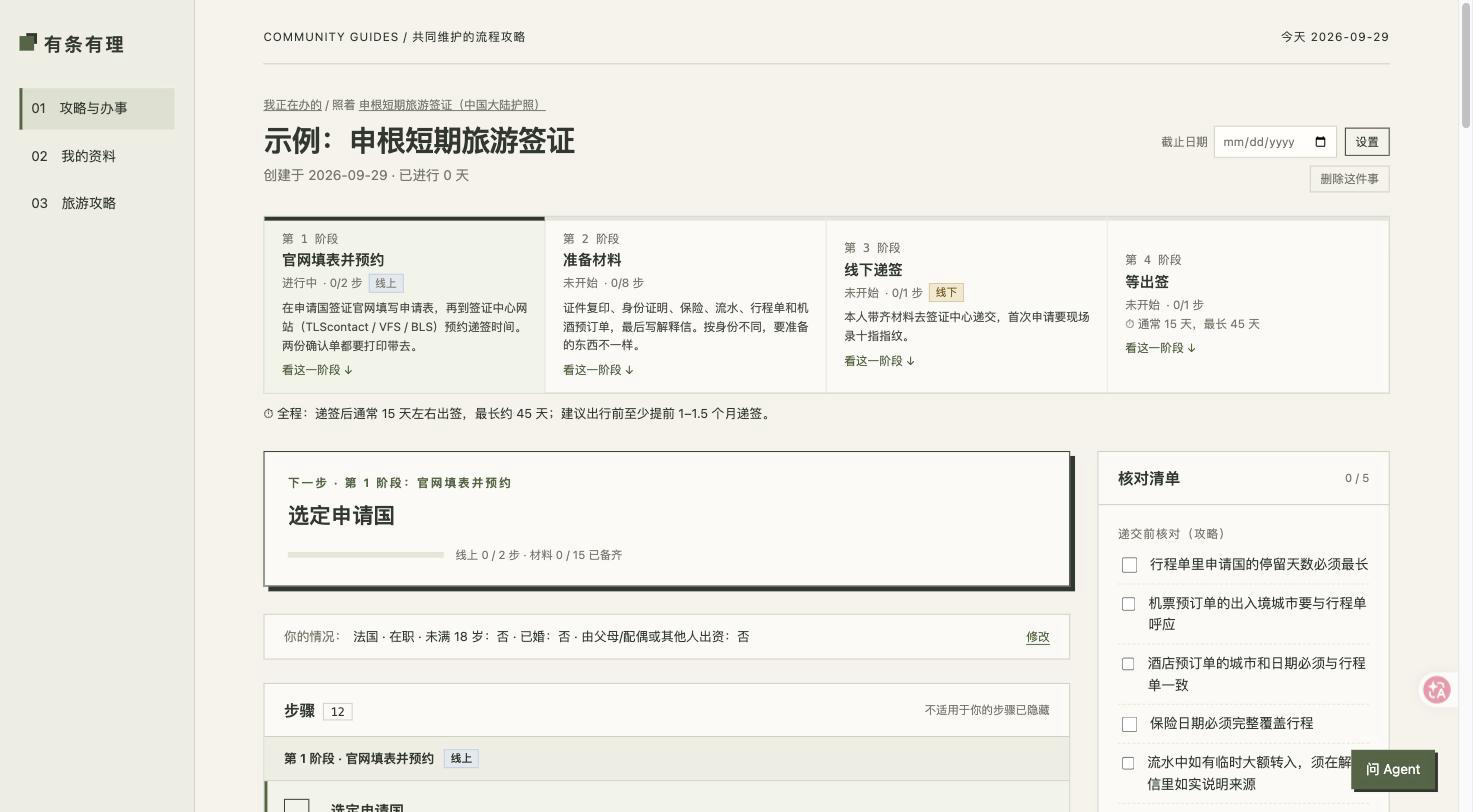
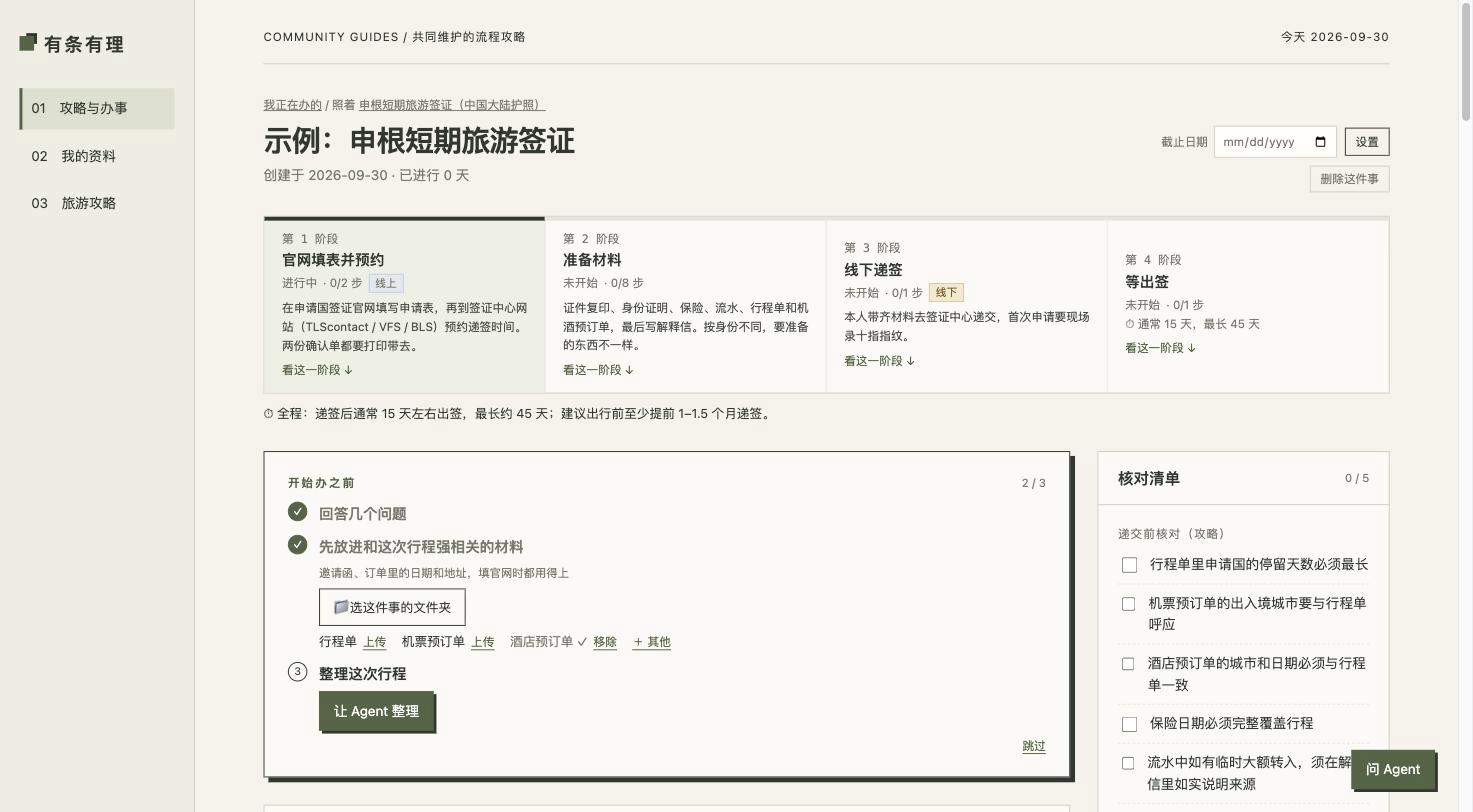
docs(readme): rewrite for first-time users and move developer notes to CONTRIBUTING
Walks through one Schengen visa end to end, explains installation for people
who have never used a terminal, and refreshes the screenshots (fictional data).

Changed region(s): [[0.1561, 0.585, 0.7495, 1.0], [0.9681, 0.8313, 0.9993, 0.8621]]

diff --git a/README.md b/README.md
@@ -1,75 +1,106 @@
 # 有条有理
 
-**把小红书上零散的签证 / 办事攻略，整理成照着做就行的清单，并自动对上你手里已有的材料。**
+**办签证、领补贴，把散在各处的攻略整理成一张清单，一步步照着做。**
 
-![攻略库和办理中的事](docs/screenshots/home.png)
+![攻略库和正在办的事](docs/screenshots/home.png)
 
-| 照着攻略办：问几个问题，只留和你有关的步骤和材料 | 材料库：过期、快过期的自动提醒 |
-|---|---|
-| ![办事页](docs/screenshots/track.png) | ![我的资料](docs/screenshots/materials.png) |
+<sub>截图里的资料都是虚构的。</sub>
 
-<details><summary>贴帖子让 Agent 整理成攻略</summary>
+## 它解决什么问题
 
-![新建攻略](docs/screenshots/new-guide.png)
+准备办一件事的时候，你大概会经历这些：
 
-</details>
+- 在小红书翻了十几篇帖子，说法各不相同，不知道该信哪篇；
+- 材料一大堆，哪份过期了、哪份还没开，全靠脑子记；
+- 到官网填表，护照号、地址、工作经历又要一格一格敲一遍。
 
-<sub>截图里的资料都是虚构的（`uv run youtiao --demo`）。</sub>
+有条有理就是为这几件事做的。它是一个**装在你自己电脑上**的小工具，用浏览器打开就能用。
 
-办签证、领补贴时，最难的往往不是"去办"，而是弄清楚**到底要办什么**：攻略散在十几篇帖子里，说法互相矛盾；材料有有效期，搞不清哪份还能用；同一份护照、同一份流水，下次办别的事还得重新翻。
+## 以办一次申根签证为例
 
-有条有理做三件事：
+**1. 挑一份攻略，点"开始办"。** 攻略先问你几个问题，比如在职还是学生、去哪个国家，然后只留下和你有关的步骤和材料。
 
-1. **贴帖子 → 攻略**：把几篇小红书帖子的分享链接贴进「新建攻略」，你电脑上的 Claude Code 会在不登录的浏览器里读帖子，整理成一份结构化攻略：先问你几个会影响清单的问题（身份、婚否……），再列出要做哪几步、每步要什么材料、哪些信息必须前后一致。每一条都附原帖里的原话，几篇说法不同的地方会单独标出来，不替你拍板。
-2. **我的办事**：挑一份攻略"开始办"，和你无关的材料自动隐藏；它用你本机的材料库对出"哪些已经有、哪些过期了、还缺什么"，告诉你下一步做什么、什么时候该办。
-3. **材料和基本信息只录一次**：护照、流水、在职证明记一次有效期，办哪件事都能对上；姓名拼音、住址、学历、工作经历填一次，填表时直接拿来用。
+**2. 按开始清单准备。** 最上面有一张三步的小清单：回答问题 → 放进邀请函、酒店订单这些和行程有关的材料 → 整理这次行程。你也可以直接关联桌面上早就建好的"申根签证"文件夹，不用把文件再传一遍。
 
-仓库里自带几份整理好的攻略，装好就能直接开始办。
+![办事页和开始清单](docs/screenshots/track.png)
 
-另外还有：
+**3. 让 Agent 帮你整理行程。** 用一句话说"11 月 2 日到 9 日去巴黎玩，住某某酒店"，或者让它读你勾选的订单和邀请函，它会把目的、日期、住处整理好，**你确认之后才保存**。
 
-- **填表插件**：装上 Chrome 插件后，在官网上点"填本页"，姓名、生日、护照、地址、电话这些常见格子一两秒填完；填不了的标红框，侧边栏列出你的资料，点一下复制。也可以对某个网站打开"自动填"，翻到下一页就自动填好。签名、付款、提交永远由你自己来。
-- **填表对照**：不想装插件，也可以打开「填表对照」页，放在官网旁边自己复制粘贴。
-- **导出提醒**：有时间要求的步骤（例如"社保满 6 个月才能申请"）可以导出到日历。
+![这次行程](docs/screenshots/trip.png)
+
+**4. 看材料缺什么。** 你之前登记过的护照、流水、在职证明会自动对上；右边「材料一览」告诉你哪些已经有、哪些过期了、还缺什么。
+
+**5. 到官网填表。** 装上 Chrome 插件，在官网上点"填本页"，姓名、生日、护照、地址、这次的行程日期几秒钟就填好。填不了的格子标红框，你自己补。**签名、付款、提交永远由你来点。**
+
+材料和基本信息只需要录一次，下次办别的事还能接着用。
 
 ## 你的资料只在你的电脑上
 
-- 攻略是大家的，放在公开的 [`community/`](./community/)，**不含任何个人信息**。
-- 你的材料文件、基本信息、办事进度，都在你自己指定的"材料根目录"里（可以是 iCloud / Google Drive 同步目录），永远不进仓库。
-- 应用本身不调用任何 AI 模型，不需要 API key，也不会把你的资料发给任何人。Agent 功能用的是你自己电脑上装的 Claude Code，额度也是你自己的。
+- 你的材料文件、基本信息、办事进度，都存在你自己电脑上的一个文件夹里，**不会上传到任何地方**。这个文件夹也可以放在 iCloud 或 Google Drive 里，方便多台电脑同步。
+- 仓库里只有攻略和代码。攻略放在 [`community/`](./community/) 里，大家一起维护，**不含任何个人信息**。
+- 软件本身不调用任何 AI，也不需要注册账号。Agent 功能是可选的，用的是你自己电脑上的 Claude Code。
 
-## 快速开始
+## 安装（大约 10 分钟）
 
-需要 [uv](https://docs.astral.sh/uv/)（它会自动准备 Python 3.11+）：
+需要：一台 Mac（Windows 和 Linux 应该也能用，但测试得少），以及 Chrome 浏览器。
+
+**第 1 步：装 uv**（一个帮你准备 Python 环境的小工具，只装一次）
+
+打开「终端」（在启动台里搜"终端"），粘贴下面这行，按回车：
 
 ```bash
-git clone <仓库地址> && cd personal-assistant
-uv sync
+curl -LsSf https://astral.sh/uv/install.sh | sh
+```
+
+装完后把终端关掉，再重新打开一次。
+
+<details><summary>Windows 用户</summary>
+
+打开 PowerShell，运行：
+
+```powershell
+powershell -ExecutionPolicy ByPass -c "irm https://astral.sh/uv/install.ps1 | iex"
+```
+
+</details>
+
+**第 2 步：下载这个项目**
+
+在本页上方点绿色的 **Code → Download ZIP**，解压到你喜欢的位置，比如「文稿」。解压出来的文件夹叫 `personal-assistant-main`。会用 git 的话也可以 `git clone`。
+
+**第 3 步：启动**
+
+在终端里进入刚才解压的文件夹，然后启动。第一次启动会自动下载需要的东西，要等一两分钟：
+
+```bash
+cd ~/Documents/personal-assistant-main
 uv run youtiao
 ```
 
-会自动在浏览器里打开 <http://127.0.0.1:8000>。想先用一套虚构资料看看效果：`uv run youtiao --demo`（不会碰你的真实资料）。第一次打开是空的：先到「我的资料」加几份材料、填一下基本信息，再去攻略库挑一份"开始办"。
+浏览器会自动打开 <http://127.0.0.1:8000>。以后每次想用，都在终端里运行这两行；用完直接关掉终端窗口就行。
 
-材料默认存在仓库里的 `materials/`（已被 git 忽略）。想放到别处，把 `config.example.yaml` 复制成 `config.yaml`，改 `materials_root`。
+**先看看效果？** 运行 `uv run youtiao --demo`，打开的是一套虚构的资料，随便点，不会影响你自己的数据。
 
-### 可选：填表插件（Chrome）
+**第一次正式使用**：先到「我的资料」登记几份常用材料（护照、流水……），填一下基本信息，再去攻略库挑一份"开始办"。右下角的「问 Agent」里点"带我上手"，它会一步步带你走一遍（需要下面的 Agent 功能）。
 
-1. Chrome 地址栏打开 `chrome://extensions`，打开右上角的「开发者模式」。
-2. 点「加载已解压的扩展程序」，选仓库里的 `extension/` 文件夹。
-3. 点工具栏上的插件图标，右边会打开侧边栏。打开要填的官网，点「填本页」；第一次在某个网站上用，Chrome 会问要不要允许插件读写这个网站，选允许。
+## 可选功能
 
-插件只和你电脑上的本地服务通信（`uv run youtiao` 要开着），不调用任何 AI。条款禁止自动化的网站（例如澳洲 ImmiAccount），侧边栏会先显示条款原文，你勾选"我知道风险"后才能用。
+### Chrome 填表插件
 
-### 可选：Agent 功能
+1. 在 Chrome 地址栏打开 `chrome://extensions`，打开右上角的「开发者模式」。
+2. 点「加载已解压的扩展程序」，选项目里的 `extension` 文件夹。
+3. 点工具栏上的插件图标，右边会打开侧边栏。到要填的官网，先在顶部选「这件事」，再点「填本页」。
 
-「新建攻略」、右下角的「问 Agent」和 Agent 填表，需要：
+插件只和你电脑上的有条有理通信，所以用的时候 `uv run youtiao` 要开着。有些网站的条款禁止自动填表，比如澳洲 ImmiAccount，侧边栏会先把条款原文给你看，由你决定用不用。
 
-- [Claude Code](https://claude.com/claude-code)，并已登录；
-- 读小红书帖子还需要 [Claude in Chrome](https://claude.ai/chrome) 扩展。
+### Agent 功能
 
-装好后重启本地服务，页面会自动检测到。没有装也不影响其他功能。
+「让 Agent 整理」行程、「新建攻略」和右下角的「问 Agent」需要：
 
-在终端里用 Claude Code 时（例如让它帮你填表），第一次在项目目录里打开，它会问要不要启用本项目的 MCP 服务 `personal-assistant`，**选启用**：填表、查进度这些工具都在里面。当时选了不启用的话，在 Claude Code 里输入 `/mcp` 重新打开。
+- 装好 [Claude Code](https://claude.com/claude-code) 并登录；
+- 如果要让它读小红书帖子来整理攻略，还要装 [Claude in Chrome](https://claude.ai/chrome) 扩展。它只用不登录的浏览器读帖子，不会碰你的账号。
+
+装好后重启有条有理，页面会自动发现它。不装也不影响其他功能。
 
 ## 现有攻略
 
@@ -79,50 +110,51 @@ uv run youtiao
 | 美国 B1/B2 商务 / 旅游签证（中国大陆申请） | 签证 |
 | 美国 F-1 学生签证（中国大陆面签） | 签证 |
 | 澳大利亚 600 访客签证 · 商务类（网申 DIY） | 签证 |
-| 在美 F-1 学生申请英国标准访客签证（纽约 VFS） | 签证 |
+| 在美 F-1 学生申请英国标准访客签证 | 签证 |
 | 在美 F-1 学生申请阿根廷旅游签证 | 签证 |
 | 杭州应届生补贴（青荷礼包 / 生活 / 租房 / 就业） | 补贴 |
 
-攻略都整理自公开帖子和官网，**会过时**：每份都写了资料截至什么时候，办之前请以官网为准。
+攻略整理自公开帖子和官网，**会过时**。每份都写了资料截至哪天，办之前请以官网为准。
 
-## 分享你整理的攻略（可选）
+没有你要办的事？点攻略库的「+ 新建攻略」，贴几篇帖子的链接，Agent 会帮你整理成一份新攻略，每一条都附上原帖里的原话，说法冲突的地方会单独标出来。
 
-自己整理的攻略存在 `community/guides/`，觉得对别人有用，欢迎提交一个 Pull Request。
+<details><summary>贴帖子整理攻略的样子</summary>
 
-也可以在终端里让你自己的 Agent 按 [`specs/002-guide-to-track/prompt.md`](./specs/002-guide-to-track/prompt.md) 整理。提交前运行一次校验：
+![新建攻略](docs/screenshots/new-guide.png)
 
-```bash
-uv run python -m core.guides
-```
+</details>
 
-全部是 ✓ 才算通过。详细规则（尤其是"不能出现任何个人信息"）见 [`community/README.md`](./community/README.md)。
+## 常见问题
+
+**要花钱吗？**
+有条有理本身免费。Agent 功能用的是 Claude Code，要有 Claude 的订阅或者 API 额度。
+
+**我的资料存在哪？**
+默认存在项目文件夹里的 `materials/`。想换地方（比如 iCloud），把 `config.example.yaml` 复制一份改名为 `config.yaml`，改里面的 `materials_root`。
+
+**怎么更新到新版本？**
+重新下载 ZIP 覆盖，或者用 git 的话运行 `git pull`。你的资料在 `materials/` 或你自己指定的文件夹里，不会被覆盖。
+
+**攻略写错了、过时了怎么办？**
+欢迎[提一个 issue](../../issues/new/choose)（选"攻略过时了"），或者直接改好 `community/guides/` 里的文件提交 Pull Request，见 [`CONTRIBUTING.md`](./CONTRIBUTING.md)。
+
+**它会替我提交申请吗？**
+不会。签名、付款、提交、验证码，永远由你自己来。
 
 ## 边界
 
 - 这不是法律或移民建议。攻略可能过时或有错，以官网和使馆为准。
 - 不代你签名、付款、提交，也不处理验证码。
-- 使用条款禁止自动化的网站（例如美签预约 USTravelDocs、澳洲 ImmiAccount），Agent 会先告诉你条款原文和风险（账户可能被停），推荐用「填表对照」自己粘贴；要不要让它代填，由你决定。
-- 读小红书只用不登录的浏览器、一次最多 6 条，不碰你的账号。
+- 使用条款禁止自动化的网站，会先告诉你条款原文和风险，推荐你用「填表对照」页自己复制粘贴。
 
-## 项目结构
+## 参与
 
-```
-community/     大家共同维护的攻略、材料词表、填表同义词表（公开，不含个人信息）
-src/core/      核心逻辑：攻略校验、材料匹配、办事进度计算（纯代码，可单独测试）
-src/api/       本地 Web 服务
-src/form_engine/  填表引擎和填表对照
-src/agent_tools/  给 Agent 用的 MCP 工具
-extension/     Chrome 插件（引擎脚本由 scripts/build_extension.py 从 src/form_engine/ 生成）
-web/           页面
-specs/  docs/  设计文档、路线图、试验记录
-```
-
-想参与开发，先读 [`AGENTS.md`](./AGENTS.md)（协作规则）和 [`docs/ROADMAP.md`](./docs/ROADMAP.md)（接下来做什么）。测试：`uv run pytest`。
+想分享攻略、报告问题或一起开发，请看 [`CONTRIBUTING.md`](./CONTRIBUTING.md)。
 
 ## 许可证
 
-[MIT](./LICENSE)，包括 `community/` 里的攻略。攻略里摘录的帖子原话（每条不超过 60 字、注明出处）版权归原作者。
+[MIT](./LICENSE)，包括 `community/` 里的攻略。攻略里摘录的帖子原话（每条不超过 60 字，注明出处）版权归原作者。
 
 ---
 
-**English**: Youtiao Youli ("organized") turns scattered visa and paperwork guides from social media into step-by-step checklists, and matches them against the documents you already have. Everything personal stays on your computer; guides are shared in `community/`. The app runs locally and calls no AI model itself; optional agent features use your own Claude Code. Chinese-first for now.
+**English**: *Youtiao Youli* ("well organized") turns scattered visa and paperwork guides into step-by-step checklists, matches them against the documents you already have, and fills common fields on official application sites through a Chrome extension. Everything personal stays on your computer; guides are shared in `community/`. The app itself calls no AI model; optional agent features use your own Claude Code. The interface is in Chinese for now.

diff --git a/CONTRIBUTING.md b/CONTRIBUTING.md
@@ -1,0 +1,69 @@
+# 参与有条有理
+
+谢谢你愿意帮忙！下面按"想做的事"分开写，挑你需要的看就行。
+
+## 最重要的一条：不提交任何个人信息
+
+这个仓库是公开的，只放代码、文档和攻略。**姓名、证件号、电话、住址、金额、自己的办事进度、材料扫描件**，一律不能出现在提交里。
+
+示例数据请用明显虚构的值，比如 `ZHANG SAN`、`1 EXAMPLE ROAD`、`zhang.san@example.com`。你自己的资料放在材料根目录（默认是 `materials/`），它已经被 git 忽略了。
+
+## 攻略过时了 / 写错了
+
+最简单的方法是[提一个 issue](../../issues/new/choose)，选"攻略过时了"，写清楚哪一步、官网现在怎么说、官网链接。
+
+会改文件的话，也可以直接修改 `community/guides/` 里对应的 YAML，提交 Pull Request。
+
+## 分享一份新攻略
+
+1. 在有条有理里点「+ 新建攻略」，贴几篇帖子的链接或正文，让 Agent 整理成草稿；也可以在终端里让你自己的 Agent 按 [`specs/002-guide-to-track/prompt.md`](./specs/002-guide-to-track/prompt.md) 整理。
+2. 草稿确认没问题后，会保存成 `community/guides/<id>.yaml`。
+3. 在项目文件夹里运行校验，全部是 ✓ 才算通过：
+
+   ```bash
+   uv run python -m core.guides
+   ```
+
+4. 提交 Pull Request，写上资料来源（哪几篇帖子、哪个官网）和资料截至日期。
+
+攻略的写法规则（摘录原话不超过 60 字、说法冲突怎么标……）见 [`community/README.md`](./community/README.md)。
+
+## 报告 bug
+
+[提一个 issue](../../issues/new/choose)，选"出问题了"。写清楚你做了什么、看到了什么、本来期望什么。截图前请遮住个人信息，或者用 `uv run youtiao --demo` 的虚构资料复现。
+
+## 一起写代码
+
+### 跑起来
+
+```bash
+uv sync
+uv run youtiao --reload      # 改了代码自动重启
+uv run pytest                # 测试
+uv run python -m core.guides # 校验攻略和词表
+```
+
+改了 `src/form_engine/` 里的填表脚本后，运行 `uv run python scripts/build_extension.py`，把它同步到插件里（CI 会检查两边是否一致）。
+
+### 代码在哪
+
+```
+community/        大家一起维护的攻略、材料词表、填表同义词表
+src/core/         核心逻辑：攻略校验、材料匹配、办事进度、这次行程
+src/api/          本地网页服务
+src/form_engine/  填表引擎和填表对照
+src/agent_tools/  给 Agent 用的工具（MCP）
+src/agent_runner/ 从网页调起 Agent 的任务
+extension/        Chrome 插件
+web/              页面
+specs/  docs/     设计文档、路线图、试验记录
+```
+
+### 动手之前
+
+- 先读 [`AGENTS.md`](./AGENTS.md)：协作规则，包括提交信息的格式和安全约定。
+- 再看 [`docs/ROADMAP.md`](./docs/ROADMAP.md)，了解接下来要做什么；新想法先写进 [`docs/BACKLOG.md`](./docs/BACKLOG.md)。
+- 功能的设计都在 `specs/` 里，每个编号一个主题。改行为之前先改对应的 spec。
+- 提交信息用 [Conventional Commits](https://www.conventionalcommits.org/zh-hans/v1.0.0/) 的格式，比如 `feat(web): ...`、`fix(form-engine): ...`。
+
+提交 Pull Request 时，模板里有一张检查清单，照着勾一遍就好。
